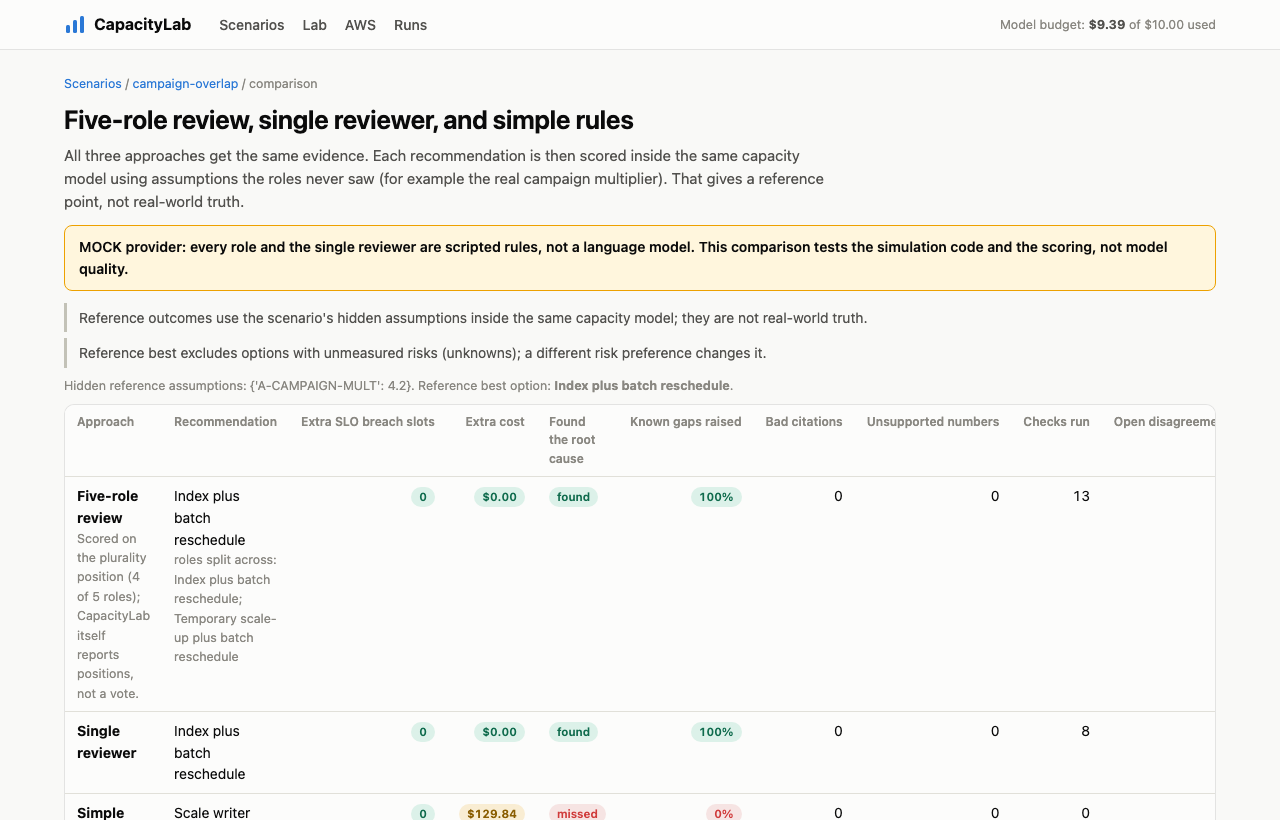
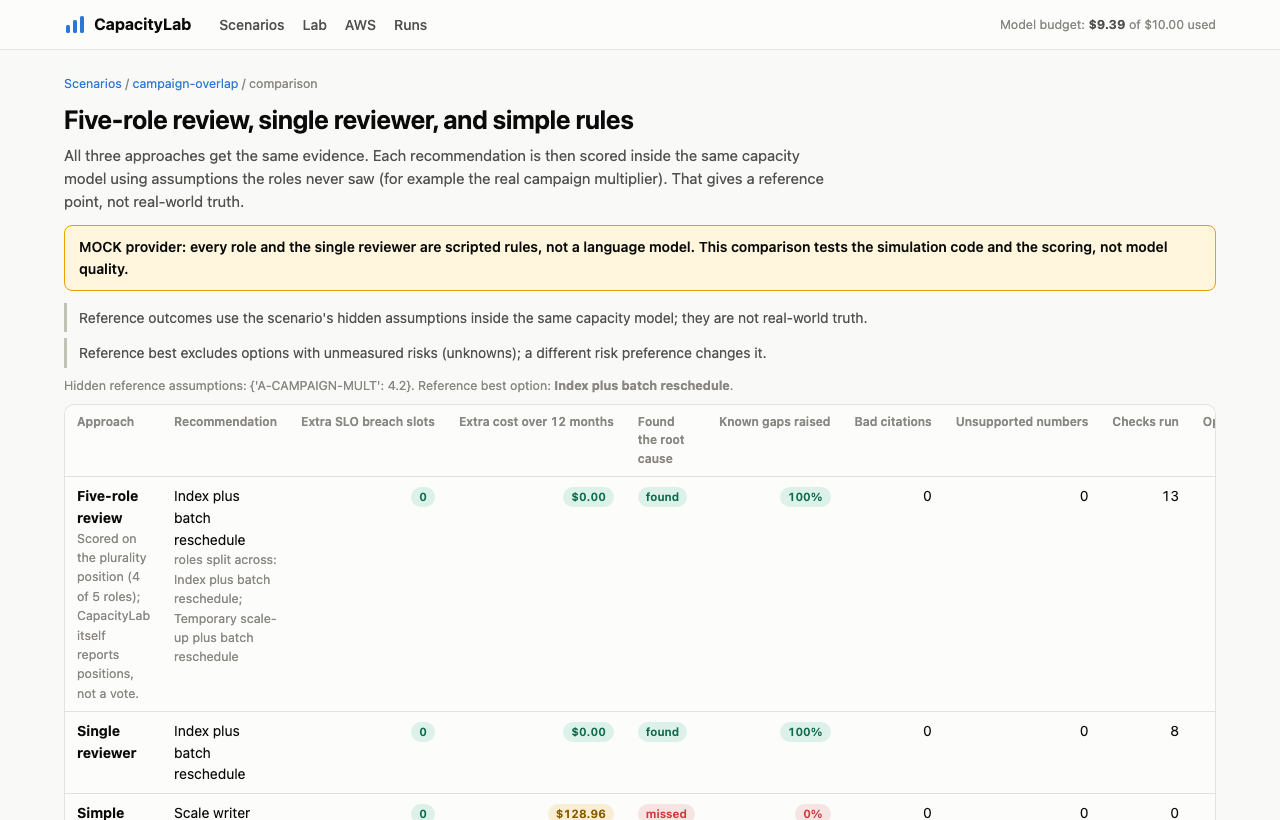
Make the money add up: exact figures, one unit for cost, a test that recomputes them
- Comparison and scripted agents compared one-off and monthly amounts by adding them
  directly; both now use a 12-month cost (one-off + 12 x monthly). The rule-based
  regret becomes $128.96 ($129.92 - 12 x $0.08) and -$81,292.80 for downsizing.
- Month-to-date spend in the flash-sale budget evidence was inconsistent with its
  own forecast; it is now $16,200 x 15/31 = $7,838.71.
- The app and README show exact amounts ($18,708.48, $13,548.80, $162,585.60)
  instead of rounding, and the README shows the calculation next to each figure,
  explains 14 breach slots versus 7 sale slots, and the $0.08 index storage.
- tests/test_money_adds_up.py recomputes every figure from the rate card, budget,
  calendar and assumptions, independently of the capacity model.

diff --git a/src/capacitylab/web/templates/evaluate.html b/src/capacitylab/web/templates/evaluate.html
@@ -10,7 +10,7 @@ assumptions the roles never saw (for example the real campaign multiplier). That
 {% for o in report.approaches[0].reference_best %}<strong>{{ labels.get(o, o) }}</strong>{% if not loop.last %}, {% endif %}{% endfor %}.</p>
 <div class="table-wrap">
 <table>
-  <thead><tr><th>Approach</th><th>Recommendation</th><th class="num">Extra SLO breach slots</th><th class="num">Extra cost</th><th>Found the root cause</th><th class="num">Known gaps raised</th><th class="num">Bad citations</th><th class="num">Unsupported numbers</th><th class="num">Checks run</th><th class="num">Open disagreements</th></tr></thead>
+  <thead><tr><th>Approach</th><th>Recommendation</th><th class="num">Extra SLO breach slots</th><th class="num">Extra cost over 12 months</th><th>Found the root cause</th><th class="num">Known gaps raised</th><th class="num">Bad citations</th><th class="num">Unsupported numbers</th><th class="num">Checks run</th><th class="num">Open disagreements</th></tr></thead>
   <tbody>
   {% for a in report.approaches %}
   <tr>

diff --git a/tests/test_money_adds_up.py b/tests/test_money_adds_up.py
@@ -1,0 +1,103 @@
+"""Every money figure shown for the scenarios must follow from its inputs by arithmetic.
+
+These tests recompute each figure from the rate card, budget, calendar and assumptions, independently of the
+capacity model, and compare it with what the model and the evidence report.
+"""
+
+import pytest
+
+from capacitylab.capacity.options import build_context, evaluate_all
+from capacitylab.evaluation.compare import compare
+from capacitylab.scenarios.loader import load_scenario
+from capacitylab.simulation.providers.mock import MockProvider
+
+
+def outcomes(scenario, bundle, overrides=None):
+    return {o.option_id: o for o in evaluate_all(build_context(scenario, bundle, overrides))}
+
+
+@pytest.fixture(scope="module")
+def sale():
+    return load_scenario("campaign-overlap")
+
+
+@pytest.fixture(scope="module")
+def reader():
+    return load_scenario("downsize-reader")
+
+
+def rates(bundle):
+    card = bundle.get("EV-RATE-001").data
+    return card["instance_hourly"], card["hours_per_month"]
+
+
+def test_every_rate_is_the_same_price_per_vcpu_hour(sale):
+    from capacitylab.capacity.catalog import CATALOG
+
+    hourly, _ = rates(sale[1])
+    for name, price in hourly.items():
+        assert price == pytest.approx(0.145 * CATALOG[name].vcpu), name
+
+
+def test_budget_evidence_matches_the_rate_card(sale, reader):
+    for (scenario, bundle), nodes in ((sale, 2), (reader, 2)):
+        hourly, hours = rates(bundle)
+        budget = bundle.get("EV-BUD-001").data
+        assert budget["current_monthly_instance_cost_usd"] == pytest.approx(
+            hourly[scenario.cluster.writer_instance] * hours * nodes)
+    budget = sale[1].get("EV-BUD-001").data
+    # observed on 15 October of a 31-day month, spending evenly
+    assert budget["month_to_date_usd"] == pytest.approx(budget["forecast_month_usd"] * 15 / 31, abs=0.01)
+
+
+def test_scale_options_cost_the_price_difference_times_hours_times_nodes(sale):
+    scenario, bundle = sale
+    hourly, hours = rates(bundle)
+    step = hourly["db.r6i.32xlarge"] - hourly["db.r6i.16xlarge"]
+    o = outcomes(scenario, bundle)
+    assert o["OPT-SCALE-TEMP"].cost_delta_event_usd == pytest.approx(step * 7 * 2)  # 16:00 to 23:00
+    assert o["OPT-SCALE-SEASON"].cost_delta_event_usd == pytest.approx(step * 24 * 42 * 2)
+    assert o["OPT-RESIZE-UP"].cost_delta_month_usd == pytest.approx(step * hours * 2)
+    assert o["OPT-SCALE-RESCHEDULE"].cost_delta_event_usd == o["OPT-SCALE-TEMP"].cost_delta_event_usd
+    assert 12 * o["OPT-RESIZE-UP"].cost_delta_month_usd == pytest.approx(162585.60)
+
+
+def test_revenue_at_risk_is_slots_times_hours_times_revenue_times_loss(sale):
+    scenario, bundle = sale
+    previous = bundle.get("EV-CAL-002").data
+    per_hour = scenario.assumption("A-SALE-REVENUE-PER-HOUR").value
+    share = scenario.assumption("A-CHECKOUT-LOSS-SHARE").value
+    assert per_hour == previous["sale_revenue_usd"] / previous["duration_hours"]
+    sale_slots = sum(1 for m in scenario.horizon.slot_starts() if 18 * 60 <= m < 21 * 60)
+    for multiplier in (3.1, 4.2, 5.0, 6.0):
+        keep = outcomes(scenario, bundle, {"A-CAMPAIGN-MULT": multiplier})["OPT-KEEP"]
+        assert 0 <= keep.revenue_at_risk_slots <= sale_slots
+        assert keep.revenue_at_risk_usd == pytest.approx(keep.revenue_at_risk_slots * 0.25 * per_hour * share)
+    keep = outcomes(scenario, bundle)["OPT-KEEP"]
+    assert keep.revenue_at_risk_usd == 304500
+    # slots are counted once for revenue, once per SLO for breaches
+    assert keep.total_slo_breach_slots == sum(s.breach_slots for s in keep.slo.values())
+
+
+def test_downsizing_saves_the_price_difference_every_month(reader):
+    scenario, bundle = reader
+    hourly, hours = rates(bundle)
+    current = hourly[scenario.cluster.reader_instances[0]]
+    o = outcomes(scenario, bundle)
+    assert o["OPT-DOWNSIZE-16XL"].cost_delta_month_usd == pytest.approx((hourly["db.r6i.16xlarge"] - current) * hours)
+    assert o["OPT-DOWNSIZE-8XL"].cost_delta_month_usd == pytest.approx((hourly["db.r6i.8xlarge"] - current) * hours)
+
+
+def test_comparison_costs_one_off_and_monthly_amounts_in_one_unit(sale, reader):
+    twelve = lambda x: x["cost_delta_event_usd"] + 12 * x["cost_delta_month_usd"]  # noqa: E731
+    for scenario, bundle in (sale, reader):
+        by_name = {a.approach: a for a in compare(scenario, bundle, MockProvider).approaches}
+        rule, review = by_name["rule_based"], by_name["multi_stakeholder"]
+        # the review recommended the reference best here (zero regret), so its outcome carries the best option's costs,
+        # measured index effect included
+        assert review.cost_regret_usd == 0 and review.recommendation in rule.reference_best
+        expected = twelve(rule.outcome_under_reference) - twelve(review.outcome_under_reference)
+        assert rule.cost_regret_usd == pytest.approx(expected)
+    # evening scale-up $129.92 against index-and-move at 12 x $0.08 = $0.96
+    by_name = {a.approach: a for a in compare(*sale, MockProvider).approaches}
+    assert by_name["rule_based"].cost_regret_usd == pytest.approx(129.92 - 12 * 0.08)

diff --git a/src/capacitylab/simulation/providers/mock.py b/src/capacitylab/simulation/providers/mock.py
@@ -338,7 +338,7 @@ def _database_engineer(ctx: TurnContext, t: _Turn) -> None:
         best_index = bool(experiment)
         candidates = [o for o in outcomes.values() if _safe(o) and o["slots_over_threshold"] == 0]
         candidates.sort(key=lambda o: (0 if (best_index and _uses_index(o)) else 1, len(o["unknowns"]),
-                                       o["cost_delta_month_usd"] + o["cost_delta_event_usd"], o["peak_utilization_pct"]))
+                                       _twelve_months(o), o["peak_utilization_pct"]))
         if candidates:
             chosen = candidates[0]
             t.claim(_describe(chosen) + ".", [forecast.id], "modeled")
@@ -511,6 +511,11 @@ def _reliability_engineer(ctx: TurnContext, t: _Turn) -> None:
     t.gaps()
 
 
+def _twelve_months(o: dict) -> float:
+    """One-off cost once plus the monthly change twelve times, so one-off and recurring amounts compare in one unit."""
+    return round(o["cost_delta_event_usd"] + 12 * o["cost_delta_month_usd"], 2)
+
+
 def _finops_analyst(ctx: TurnContext, t: _Turn) -> None:
     budget = _first(ctx, EvidenceKind.BUDGET)
     if budget:
@@ -552,7 +557,7 @@ def _finops_analyst(ctx: TurnContext, t: _Turn) -> None:
             t.claim(f"{o['option_id']} puts ${o['revenue_at_risk_usd']:,.0f} of sale revenue at risk across "
                     f"{o['revenue_at_risk_slots']} breached sale slots.", [forecast.id], "modeled")
         # Twelve-month view: recurring monthly deltas plus the one-off cost of this event.
-        ok.sort(key=lambda o: (round(12 * o["cost_delta_month_usd"] + o["cost_delta_event_usd"], 2), o["slots_over_threshold"]))
+        ok.sort(key=lambda o: (_twelve_months(o), o["slots_over_threshold"]))
         if ok:
             chosen = ok[0]
             t.decide(chosen["option_id"], "Cheapest option with zero modeled SLO breaches"
@@ -563,7 +568,7 @@ def _finops_analyst(ctx: TurnContext, t: _Turn) -> None:
             for role, pos in _latest_positions(ctx).items():
                 if pos in outcomes and pos != chosen["option_id"] and role != ctx.role.id.value:
                     other = outcomes[pos]
-                    if other["cost_delta_event_usd"] + other["cost_delta_month_usd"] > chosen["cost_delta_event_usd"] + chosen["cost_delta_month_usd"]:
+                    if _twelve_months(other) > _twelve_months(chosen):
                         t.challenge(RoleId(role), f"Position {pos}",
                                     f"{chosen['option_id']} models zero SLO breaches at ${chosen['cost_delta_event_usd']} one-off "
                                     f"and ${chosen['cost_delta_month_usd']} per month, versus ${other['cost_delta_event_usd']} and "
@@ -627,7 +632,7 @@ def _single_agent(ctx: TurnContext, t: _Turn) -> None:
     t.position, t.rationale, t.confidence = "undecided", "Waiting for a forecast.", "low"
     if forecast:
         ok = [o for o in _outcomes(forecast).values() if _safe(o) and o["slots_over_threshold"] == 0]
-        ok.sort(key=lambda o: (len(o["unknowns"]), o["cost_delta_month_usd"] + o["cost_delta_event_usd"], o["peak_utilization_pct"]))
+        ok.sort(key=lambda o: (len(o["unknowns"]), _twelve_months(o), o["peak_utilization_pct"]))
         if ok:
             t.decide(ok[0]["option_id"], "Meets objectives with the fewest unknowns, then lowest cost.", "medium")
 

diff --git a/tests/test_web.py b/tests/test_web.py
@@ -197,8 +197,8 @@ def test_aws_pages(client):
 def test_what_if_options_recompute_on_the_server(client):
     page = client.get("/scenarios/campaign-overlap")
     assert 'data-whatif' in page.text and 'id="options-live"' in page.text and "3.1× in EV-CAL-002" in page.text
-    assert "6<small>/8</small>" in page.text and "$304,500" in page.text and "$18,708 one-off" in page.text
-    assert "$13,549/month" in page.text and "$162,586" in page.text, "12-month view of a permanent resize"
+    assert "6<small>/8</small>" in page.text and "$304,500" in page.text and "$18,708.48 one-off" in page.text
+    assert "$13,548.80/month" in page.text and "$162,585.60" in page.text, "12-month view of a permanent resize"
     lower = client.get("/scenarios/campaign-overlap/options", params={"A-CAMPAIGN-MULT": "3.1"})
     assert lower.status_code == 200 and "8<small>/8</small>" in lower.text and "<svg class=\"viz\"" in lower.text
     assert 'risk-off' in lower.text

diff --git a/src/capacitylab/web/app.py b/src/capacitylab/web/app.py
@@ -35,14 +35,14 @@ HERE = Path(__file__).parent
 
 
 def usd(value) -> str:
-    """$129.92 below a thousand, $18,708 above it; negative amounts are savings and keep their sign."""
+    """Exact to the cent ($18,708.48), whole dollars only when there are no cents ($304,500); savings keep their sign."""
     if value is None:
         return "not modeled"
-    sign = "-" if value < 0 else ""
-    amount = abs(float(value))
+    amount = round(abs(float(value)), 2)
     if amount == 0:
         return "$0"
-    return f"{sign}${amount:,.0f}" if amount >= 1000 else f"{sign}${amount:,.2f}"
+    sign = "-" if value < 0 else ""
+    return f"{sign}${amount:,.0f}" if amount == int(amount) else f"{sign}${amount:,.2f}"
 RUN_ID_RE = re.compile(r"^[A-Za-z0-9_-]+$")
 LAB_NAME_RE = re.compile(r"^[A-Za-z0-9_.-]+\.yaml$")
 AWS_DIR = "imports"

diff --git a/src/capacitylab/evaluation/compare.py b/src/capacitylab/evaluation/compare.py
@@ -57,7 +57,8 @@ class ComparisonReport(BaseModel):
 
 
 def _cost(o) -> float:
-    return o.cost_delta_event_usd + o.cost_delta_month_usd
+    """Cost over the next 12 months: one-off amounts once, monthly amounts twelve times, so the two are comparable."""
+    return o.cost_delta_event_usd + 12 * o.cost_delta_month_usd
 
 
 def _reference_effects(scenario: Scenario, bundle: EvidenceBundle, sandbox_factory: Callable[[], Sandbox]) \

diff --git a/README.md b/README.md
@@ -113,18 +113,22 @@ run from scripted rules, which is free, offline and repeatable.
 ## Example: a flash sale meets a batch job
 
 The `campaign-overlap` scenario: Tenant Alder runs a sale from 18:00 to 21:00 on `demo-cluster-a`, a shared
-production cluster with a writer and a reader on `db.r6i.16xlarge` (64 vCPU each, about $13,500 a month in instances
-against a $16,500 budget). Other tenants peak at the same time, a release raises order-history traffic, and the
+production cluster with a writer and a reader on `db.r6i.16xlarge` (64 vCPU each; $9.28 an hour × 730 hours × 2 nodes =
+$13,548.80 a month in instances, against a $16,500 budget). Other tenants peak at the same time, a release raises order-history traffic, and the
 loyalty recalculation job starts at 19:00. Alder's previous sale earned $2.9 million in two hours.
 
-| On the table | |
+| On the table | How it is calculated |
 |---|---|
-| ![sale](https://img.shields.io/badge/sale%20revenue-%244.35M%20over%203%20h-1b9b6d?style=flat-square) | $1.45M an hour, based on the previous sale |
-| ![risk](https://img.shields.io/badge/doing%20nothing-%24304%2C500%20at%20risk-b42318?style=flat-square) | 7 sale slots where checkout or order history misses its SLO, each losing 12% of that slot's revenue |
-| ![evening](https://img.shields.io/badge/scale%20up%20tonight-%24130-c75b3b?style=flat-square) | writer and reader on `db.r6i.32xlarge` from 16:00 to 23:00, plus failovers of unknown length |
-| ![season](https://img.shields.io/badge/scale%20up%20for%20the%20season-%2418%2C708-c75b3b?style=flat-square) | the same for the 6-week peak season |
-| ![resize](https://img.shields.io/badge/resize%20permanently-%2413%2C549%2Fmonth-c75b3b?style=flat-square) | $162,586 a year, and over the monthly budget |
-| ![move](https://img.shields.io/badge/move%20the%20batch%20job-%240-127a55?style=flat-square) | keeps every SLO in the model, but runs at 95% CPU at the peak |
+| ![sale](https://img.shields.io/badge/sale%20revenue-%244%2C350%2C000-1b9b6d?style=flat-square) | previous sale $2,900,000 ÷ 2 h = $1,450,000 an hour; × 3 h of sale = $4,350,000 |
+| ![risk](https://img.shields.io/badge/doing%20nothing-%24304%2C500%20at%20risk-b42318?style=flat-square) | 7 breached 15-minute sale slots × 0.25 h × $1,450,000 an hour × 12% lost = $304,500 |
+| ![evening](https://img.shields.io/badge/scale%20up%20tonight-%24129.92-c75b3b?style=flat-square) | 32xlarge $18.56 − 16xlarge $9.28 = $9.28 more an hour × 7 h (16:00 to 23:00) × 2 nodes = $129.92 |
+| ![season](https://img.shields.io/badge/scale%20up%20for%20the%20season-%2418%2C708.48-c75b3b?style=flat-square) | $9.28 more an hour × 24 h × 42 days × 2 nodes = $18,708.48 |
+| ![resize](https://img.shields.io/badge/resize%20permanently-%2413%2C548.80%20a%20month-c75b3b?style=flat-square) | $9.28 more an hour × 730 h × 2 nodes = $13,548.80 a month; × 12 = $162,585.60 a year |
+| ![move](https://img.shields.io/badge/move%20the%20batch%20job-%240-127a55?style=flat-square) | no instance change; keeps every SLO in the model, but runs at 95% CPU at the peak |
+
+Every instance price is $0.145 per vCPU-hour ($9.28 = 64 vCPU × $0.145), and a month is 730 hours. The sale's revenue
+per hour is held at the previous sale's rate rather than raised with the 5× traffic plan, so the revenue at risk is a
+conservative figure.
 
 ```mermaid
 gantt
@@ -196,16 +200,21 @@ From the scripted run, with the index effect measured in the SQLite experiment d
 | Option | Peak CPU | Slots over 80% | SLO breach slots | One-off | Monthly | Revenue at risk |
 |---|---:|---:|---:|---:|---:|---:|
 | Keep capacity | 115.0% | 12 | ![14](https://img.shields.io/badge/-14-b42318?style=flat-square) | $0 | $0 | **$304,500** |
-| Scale to 32xlarge, 16:00–23:00 | 57.5% | 0 | ![0](https://img.shields.io/badge/-0-127a55?style=flat-square) | $130 | $0 | $0 |
-| Scale to 32xlarge for the 6-week season | 57.5% | 0 | ![0](https://img.shields.io/badge/-0-127a55?style=flat-square) | $18,708 | $0 | $0 |
-| Resize to 32xlarge permanently | 57.5% | 0 | ![0](https://img.shields.io/badge/-0-127a55?style=flat-square) | $0 | $13,549 | $0 |
+| Scale to 32xlarge, 16:00–23:00 | 57.5% | 0 | ![0](https://img.shields.io/badge/-0-127a55?style=flat-square) | $129.92 | $0 | $0 |
+| Scale to 32xlarge for the 6-week season | 57.5% | 0 | ![0](https://img.shields.io/badge/-0-127a55?style=flat-square) | $18,708.48 | $0 | $0 |
+| Resize to 32xlarge permanently | 57.5% | 0 | ![0](https://img.shields.io/badge/-0-127a55?style=flat-square) | $0 | $13,548.80 | $0 |
 | Add the index | 97.7% | 8 | ![0](https://img.shields.io/badge/-0-127a55?style=flat-square) | $0 | $0.08 | $0 |
 | Move the batch job to 01:00 | 95.0% | 11 | ![0](https://img.shields.io/badge/-0-127a55?style=flat-square) | $0 | $0 | $0 |
 | Index and move the batch job | 77.7% | 0 | ![0](https://img.shields.io/badge/-0-127a55?style=flat-square) | $0 | $0.08 | $0 |
-| Scale up and move the batch job | 47.5% | 0 | ![0](https://img.shields.io/badge/-0-127a55?style=flat-square) | $130 | $0 | $0 |
+| Scale up and move the batch job | 47.5% | 0 | ![0](https://img.shields.io/badge/-0-127a55?style=flat-square) | $129.92 | $0 | $0 |
 
 Every scale option also carries writer failovers of unknown length. The scripted FinOps agent reads this table on a
-12-month view, which is why a $130 evening beats a $13,549-a-month resize even though both keep every SLO.
+12-month view, which is why a $129.92 evening beats a $13,548.80-a-month resize even though both keep every SLO.
+
+*SLO breach slots* counts each SLO separately: when nothing changes, checkout and order history each miss their SLO in
+the same 7 sale slots, so 7 × 2 = 14. *Revenue at risk* counts the slot once. The index costs $0.08 a month: the
+candidate measured 1,835,008 bytes on 122,675 local rows, which scales to 0.802 GiB at 57,600,000 production rows, and
+0.802 GiB × $0.10 = $0.08.
 
 Prices come from the scenario's own rate-card evidence (`EV-RATE-001`), not from code: the cost model reads it from
 the evidence bundle, and a scenario without one fails validation. An AWS import with prices replaces the instance
@@ -376,10 +385,11 @@ Every proposed index or rewrite must include evidence, why it should help and ho
 ![A database change proposed in the Sonnet run, with evidence, tradeoffs, validation, and rollback](docs/media/run-proposal.png)
 
 `downsize-reader` covers the opposite question. The cluster runs a writer and a reader on `db.r6i.32xlarge` (128 vCPU,
-about $27,100 a month against a $25,000 budget), and the reader peaks at 18.7% CPU. Downsizing it to `16xlarge` saves
-$6,774 a month ($81,293 a year); to `8xlarge`, $10,162 a month ($121,939 a year). CPU would allow either, but the
+$18.56 × 730 h × 2 nodes = $27,097.60 a month against a $25,000 budget), and the reader peaks at 18.7% CPU. Downsizing
+it to `16xlarge` saves ($18.56 − $9.28) × 730 h = $6,774.40 a month ($81,292.80 a year); to `8xlarge`, ($18.56 − $4.64)
+× 730 h = $10,161.60 a month ($121,939.20 a year). CPU would allow either, but the
 working set (568 GiB) is larger than the smaller instance's modeled buffer pool, and the reader is the failover
-target. Four agents keep the reader; the cost analyst holds out for the $81,293 a year.
+target. Four agents keep the reader; the cost analyst holds out for the $81,292.80 a year.
 
 </details>
 
@@ -834,7 +844,7 @@ Four runs so far on `campaign-overlap` with the lab file attached. The last two 
   decided in round 2. Unanimity is not agreement about truth. None of these runs requested an index experiment, so the
   index options show no benefit in their forecasts.
 - **Money changed the conversation.** In the production-scale run the agents quote the $304,500 of sale revenue at risk
-  if nothing changes, the $18,708 season scale-up and the $13,549-a-month resize against a $16,500 monthly budget, and
+  if nothing changes, the $18,708.48 season scale-up and the $13,548.80-a-month resize against a $16,500 monthly budget, and
   settle on the $0 option that keeps every SLO in the model.
 - **What the checks caught in the production-scale run:** the FinOps analyst quoted the $16,500 budget while citing
   the cost estimate instead of the budget evidence, and worked out a -$18,408.48 headroom itself instead of quoting it;
@@ -854,16 +864,21 @@ Four runs so far on `campaign-overlap` with the lab file attached. The last two 
 and all checks, and simple capacity rules. It then scores each recommendation inside the capacity model using
 assumptions no role saw (for example the real multiplier, 4.2×).
 
-| Scenario | Approach | Recommendation | Extra breach slots | Extra cost | Root cause found | Known gaps raised |
+| Scenario | Approach | Recommendation | Extra breach slots | Extra cost over 12 months | Root cause found | Known gaps raised |
 |---|---|---|---:|---:|:---:|---:|
 | campaign-overlap | five-role review | index and move batch job *(4 of 5)* | 0 | $0.00 | yes | 100% |
 | campaign-overlap | single reviewer | index and move batch job | 0 | $0.00 | yes | 100% |
-| campaign-overlap | simple rules | scale up for the evening | 0 | $129.84 | **no** | **0%** |
+| campaign-overlap | simple rules | scale up for the evening | 0 | $128.96 | **no** | **0%** |
 | downsize-reader | five-role review | keep *(4 of 5)* | 0 | $0.00 | n/a | 100% |
 | downsize-reader | single reviewer | keep | 0 | $0.00 | n/a | 100% |
-| downsize-reader | simple rules | downsize to 16xlarge | 0 | −$6,774.40/month | n/a | **0%** |
+| downsize-reader | simple rules | downsize to 16xlarge | 0 | −$81,292.80 | n/a | **0%** |
 
 ![Comparison page](docs/media/evaluation.png)
+
+*Extra cost over 12 months* compares one-off and monthly costs in one unit: one-off cost + 12 × monthly cost, minus the
+same for the best option under the hidden assumptions. The evening scale-up is $129.92 + 12 × $0 = $129.92; the best
+option (index and move the batch job) is $0 + 12 × $0.08 = $0.96; so $129.92 − $0.96 = $128.96. Downsizing the reader
+is $0 + 12 × −$6,774.40 = −$81,292.80 against keeping it at $0.
 
 > [!NOTE]
 > With scripted roles, the five-role review and the single reviewer reach the same answer; the five-role review
@@ -927,7 +942,7 @@ src/capacitylab/
   spend.py         spend ledger
   web/             FastAPI pages, SVG charts
   data/scenarios/  campaign-overlap, downsize-reader
-tests/             156 run by default; 7 need the MySQL container (2 also the Percona image), 1 the PostgreSQL
+tests/             162 run by default; 7 need the MySQL container (2 also the Percona image), 1 the PostgreSQL
                    container, 1 a seeded Floci emulator; 1 calls a real model and is opt-in
   data/percona/    real Percona Toolkit output captured from the lab, used by the parser tests
 scripts/           screenshot and GIF capture, Floci seed data

diff --git a/docs/EVALUATION.md b/docs/EVALUATION.md
@@ -29,7 +29,7 @@ preference; changing it changes the reference.
 | Metric | Definition |
 |---|---|
 | Breach-slot regret | SLO breach slots of the recommendation minus those of the reference best |
-| Cost regret | (one-off + monthly) cost of the recommendation minus the reference best |
+| Cost regret | 12-month cost (one-off + 12 × monthly) of the recommendation minus that of the reference best |
 | Root cause found | An optimization proposal targets a root-cause fingerprint |
 | Gap recall | Share of expected gap flags present in the final missing-evidence list |
 | Citation errors | Invalid or inaccessible citations across all turns |
@@ -45,10 +45,10 @@ output is the set of positions, not a vote. A tie is reported and broken alphabe
 |---|---|---|---|---|---|---|---|---|---|
 | campaign-overlap | five-role review | OPT-INDEX-RESCHEDULE | 0 | 0.00 | yes | 1.0 | 0 | 0 | 7 |
 | campaign-overlap | single reviewer | OPT-INDEX-RESCHEDULE | 0 | 0.00 | yes | 1.0 | 0 | 0 | 0 |
-| campaign-overlap | rule-based | OPT-SCALE-TEMP | 0 | 129.84 | no | 0.0 | 0 | 0 | 0 |
+| campaign-overlap | rule-based | OPT-SCALE-TEMP | 0 | 128.96 | no | 0.0 | 0 | 0 | 0 |
 | downsize-reader | five-role review | OPT-KEEP | 0 | 0.00 | n/a | 1.0 | 0 | 0 | 6 |
 | downsize-reader | single reviewer | OPT-KEEP | 0 | 0.00 | n/a | 1.0 | 0 | 0 | 0 |
-| downsize-reader | rule-based | OPT-DOWNSIZE-16XL | 0 | −6,774.40 | n/a | 0.0 | 0 | 0 | 0 |
+| downsize-reader | rule-based | OPT-DOWNSIZE-16XL | 0 | −81,292.80 | n/a | 0.0 | 0 | 0 | 0 |
 
 ### What these results do and do not show
 
